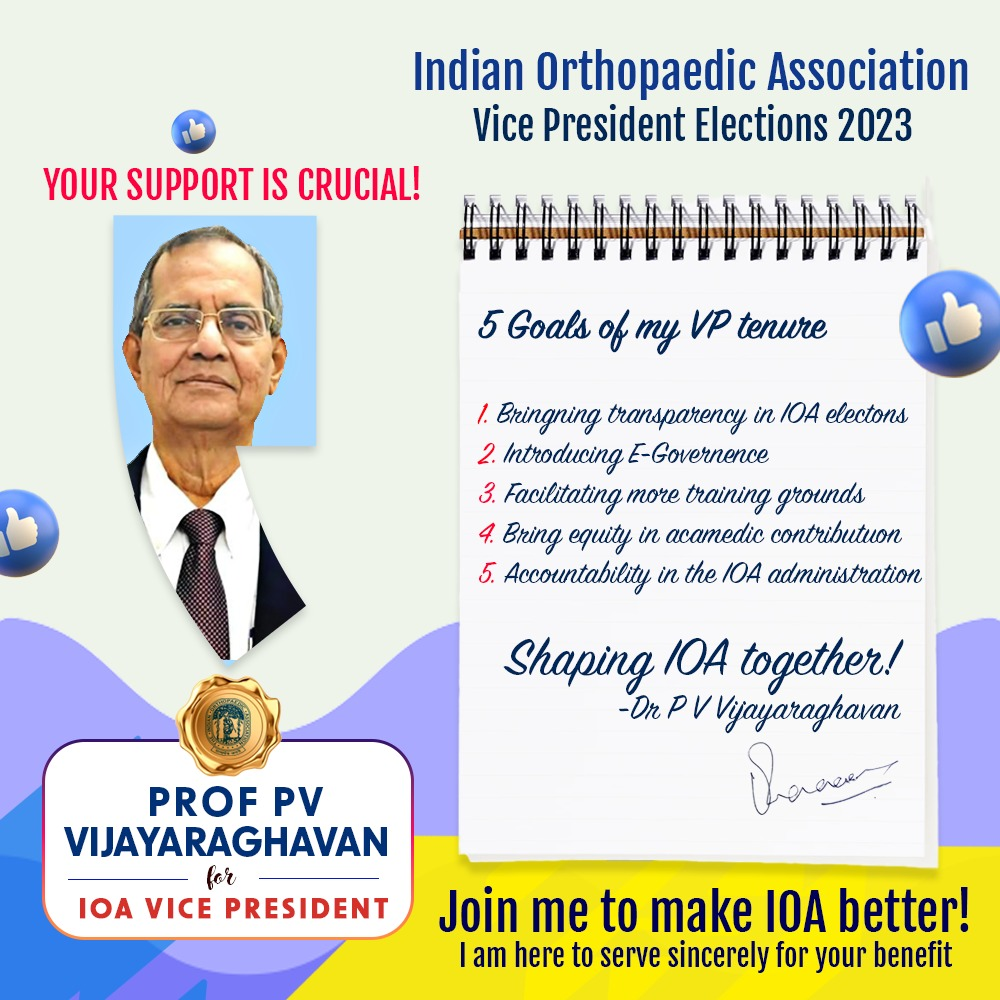
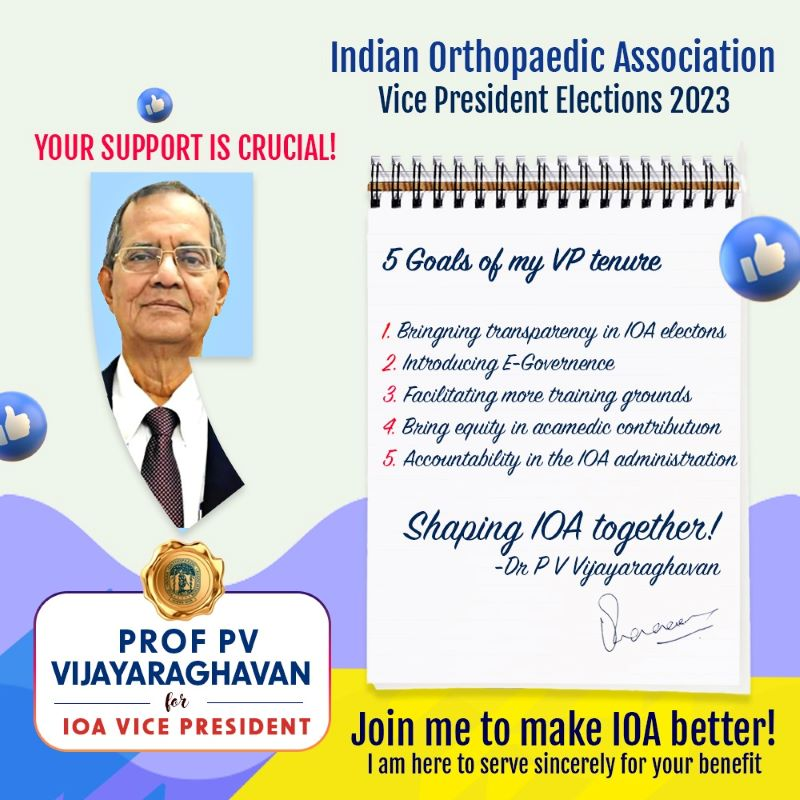
Email template of Vijyaraghavan

diff --git a/EmailTemplate/index2.html b/EmailTemplate/index2.html
@@ -80,8 +80,8 @@
  <!-- =============== Poster HTML  Started ============= -->        
             <tr>
                 <td colspan="2">
-                    <img src="https://github.com/techiedharam/Dr.Vijayaraghavan/blob/master/EmailTemplate/Images/Poster1.jpg?raw=true" alt="" width="100%" style="border-radius: 20px 20px 0px 0px;" >
-                    <img src="https://github.com/techiedharam/Dr.Vijayaraghavan/blob/master/EmailTemplate/Images/poster2.jpg?raw=true" alt="" width="100%" style="border-radius: 0px 0px 20px 20px;" >
+                    <img src="https://github.com/techiedharam/Dr.Vijayaraghavan/blob/master/EmailTemplate/Images/letter3.jpg?raw=true" alt="" width="100%" > <br>
+                    <img src="https://github.com/techiedharam/Dr.Vijayaraghavan/blob/master/EmailTemplate/Images/Poster3.jpg?raw=true" alt="" width="100%">
                 </td>
                 
             </tr>
